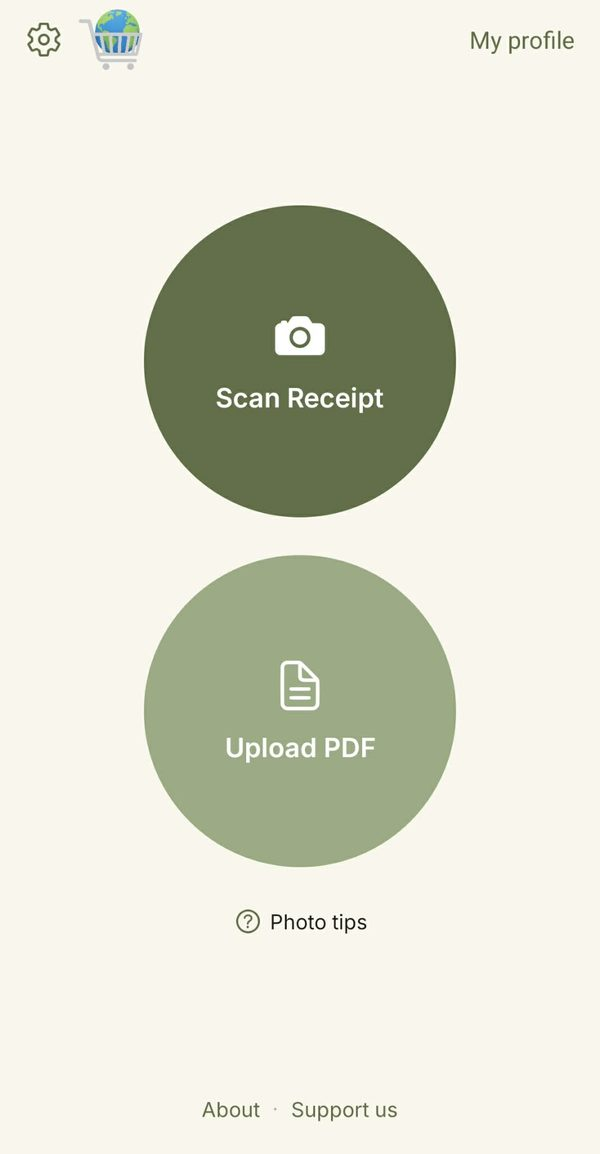
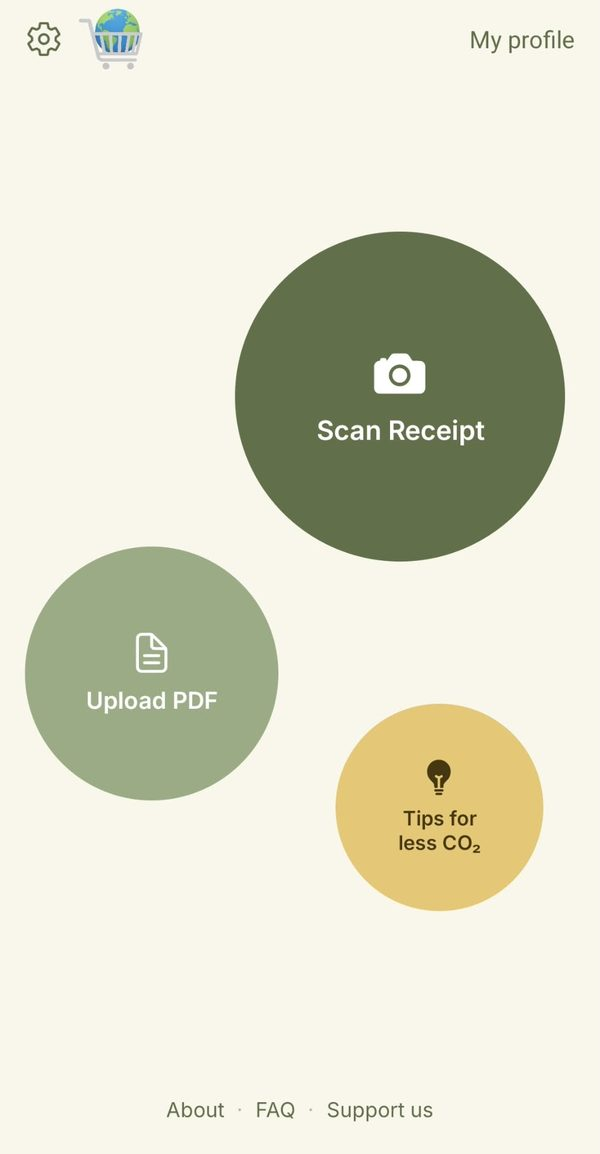
Home page: new app home screen screenshots (EN/NL/FR), updated alt text

diff --git a/fr/index.html b/fr/index.html
@@ -39,7 +39,7 @@
 <h2>Comment ça marche</h2>
 <ol class="steps">
   <li>
-    <img src="../assets/screenshots/fr/web/1-scan.jpg" width="600" height="1154" alt="Écran d'accueil de ClimateCart avec les boutons pour scanner un ticket ou importer un PDF" loading="lazy">
+    <img src="../assets/screenshots/fr/web/1-scan.jpg" width="600" height="1154" alt="Écran d'accueil de ClimateCart avec les boutons pour scanner un ticket, importer un PDF ou voir des astuces pour moins de CO₂" loading="lazy">
     <h3>1. Scannez votre ticket</h3>
     <p>Photographiez un ticket papier (jusqu'à 3 photos pour un long ticket) ou importez un ticket en PDF.</p>
   </li>

diff --git a/nl/index.html b/nl/index.html
@@ -39,7 +39,7 @@
 <h2>Hoe het werkt</h2>
 <ol class="steps">
   <li>
-    <img src="../assets/screenshots/nl/web/1-scan.jpg" width="600" height="1154" alt="Startscherm van ClimateCart met knoppen om een kassabon te scannen of een pdf op te laden" loading="lazy">
+    <img src="../assets/screenshots/nl/web/1-scan.jpg" width="600" height="1154" alt="Startscherm van ClimateCart met knoppen om een kassabon te scannen, een pdf op te laden of tips voor minder CO₂ te bekijken" loading="lazy">
     <h3>1. Scan je kassabon</h3>
     <p>Fotografeer een papieren kassabon (tot 3 foto's voor een lange bon) of laad een pdf-kassabon op.</p>
   </li>

diff --git a/index.html b/index.html
@@ -39,7 +39,7 @@
 <h2>How it works</h2>
 <ol class="steps">
   <li>
-    <img src="assets/screenshots/en/web/1-scan.jpg" width="600" height="1154" alt="ClimateCart home screen with Scan Receipt and Upload PDF buttons" loading="lazy">
+    <img src="assets/screenshots/en/web/1-scan.jpg" width="600" height="1154" alt="ClimateCart home screen with the Scan Receipt, Upload PDF and Tips for less CO₂ buttons" loading="lazy">
     <h3>1. Scan your receipt</h3>
     <p>Photograph a paper receipt (up to 3 photos for a long one) or upload a PDF receipt.</p>
   </li>
